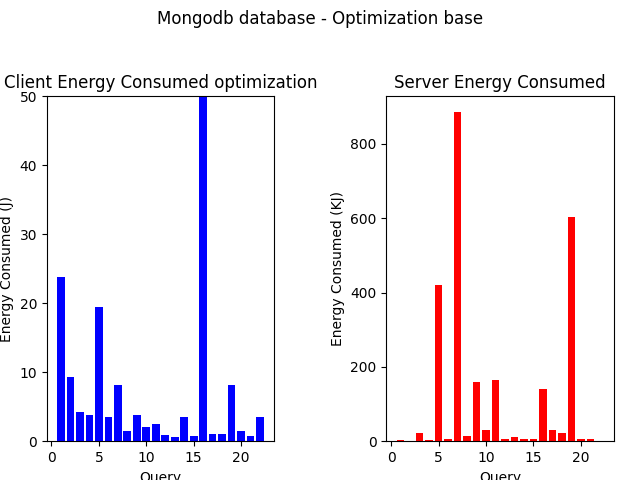
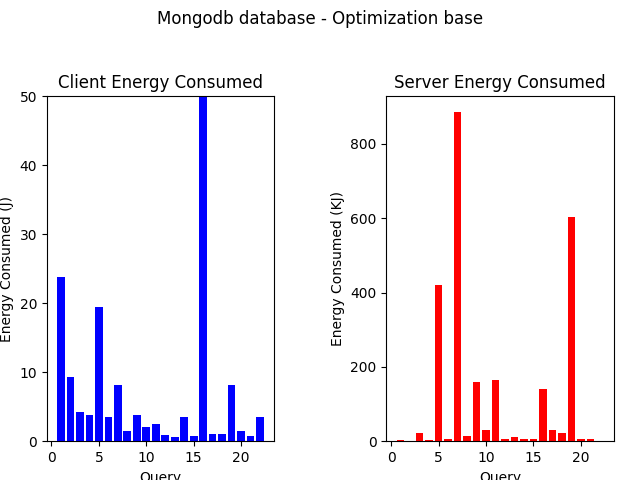
More plots

Changed region(s): [[0.0, 0.1562, 0.5, 0.1875]]

diff --git a/Data_Analysis/analysis_client_server_results.py b/Data_Analysis/analysis_client_server_results.py
@@ -112,7 +112,7 @@ def plot_queries_energy_comparation(optimization_key, database_key, results):
     figure.subplots_adjust(top=0.8)
     figure.suptitle('{} database - Optimization {}'.format(database_key.capitalize(), optimization_key), y=0.98)
     axis[0].bar(key, values_client, color = 'b')
-    axis[0].set_title('Client Energy Consumed optimization')
+    axis[0].set_title('Client Energy Consumed')
     axis[0].set_xlabel('Query')
     axis[0].set_ylabel('Energy Consumed (J)')
     axis[0].set_ylim(0, 50)
@@ -168,21 +168,88 @@ def plot_mean_energy_by_optimization(database_key, results):
     axis[1].legend()
     plt.savefig('figures/{}-means_energy_by_optimization.png'.format(database_key))
     
+    
+def plot_queries_time_comparation(optimization_key, database_key, results):
+    values = []
+    filtered_results = results.loc[ \
+                ((df['database_key'] == database_key) &\
+                    (df['optimization_key'] == optimization_key) &\
+                    (df['execution_time'] > 0)
+                )]
+    
+    key = [i for i in range(1,23)]
+    for i in key:
+        result_query = filtered_results.loc[filtered_results['query_key'] == i]
+        values.append(result_query['execution_time'].mean() / 1000) #Seconds
+    
+    figure = plt.figure(constrained_layout=True)
+    figure.tight_layout(w_pad=5, h_pad=5)
+    figure.subplots_adjust(top=0.8)
+    figure.suptitle('{} database - Optimization {}'.format(database_key.capitalize(), optimization_key), y=0.98)
+    plt.bar(key, values, color = 'b')
+    plt.title('Execution Time')
+    plt.xlabel('Query')
+    plt.ylabel('Time (Sec)')
+    
+    
+    plt.savefig('figures/{}-{}-queries_time_comparation.png'.format(database_key, optimization_key))
+    
+    
+    
 
+
+def plot_mean_time_by_optimization(database_key, results):
+    values = []
+    colors = ['b', 'r', 'g', 'y']
+    optimizations = get_optimizations(results)
+    
+    for optimization_key in optimizations:
+        filtered_results = results.loc[ \
+                ((df['database_key'] == database_key) &\
+                    (df['optimization_key'] == optimization_key) &\
+                    (df['execution_time'] > 0)
+                        )]
+        values.append(filtered_results['execution_time'].mean() / 1000)
+        
+    figure, axis = plt.subplots(1, 1, constrained_layout=True)
+    figure.tight_layout(w_pad=5, h_pad=5)
+    figure.subplots_adjust(top=0.8)
+    figure.suptitle('{} database'.format(database_key.capitalize()), y=0.98)
+    for i, optimization in enumerate(optimizations):
+        axis.bar(optimization, values[i], color = colors[i], label = optimization)
+        
+    axis.set_title('Execution Time')
+    axis.set_xlabel('Optimization')
+    axis.set_ylabel('Mean Execution Time (Sec)')
+    axis.get_xaxis().set_visible(False)
+    axis.legend()
+    
+    plt.savefig('figures/{}-means_time_by_optimization.png'.format(database_key))
 
 
 def plots(results, postgres_analysis, mongo_analysis):
     print("Generating plots...")
     optimizations = get_optimizations(df)
+    # Energy
     for optimization_key in optimizations:
         plot_queries_energy_comparation(optimization_key, "postgres", results)
         
     for optimization_key in optimizations:
             plot_queries_energy_comparation(optimization_key, "mongodb", results)
+            
 
     plot_mean_energy_by_optimization("postgres", results)
     plot_mean_energy_by_optimization("mongodb", results)
 
+    # Execution Time
+    for optimization_key in optimizations:
+        plot_queries_time_comparation(optimization_key, "postgres", results)
+        
+    for optimization_key in optimizations:
+            plot_queries_time_comparation(optimization_key, "mongodb", results)
+            
+    plot_mean_time_by_optimization("postgres", results)
+    plot_mean_time_by_optimization("mongodb", results)
 
 
 if "__main__" == __name__:
